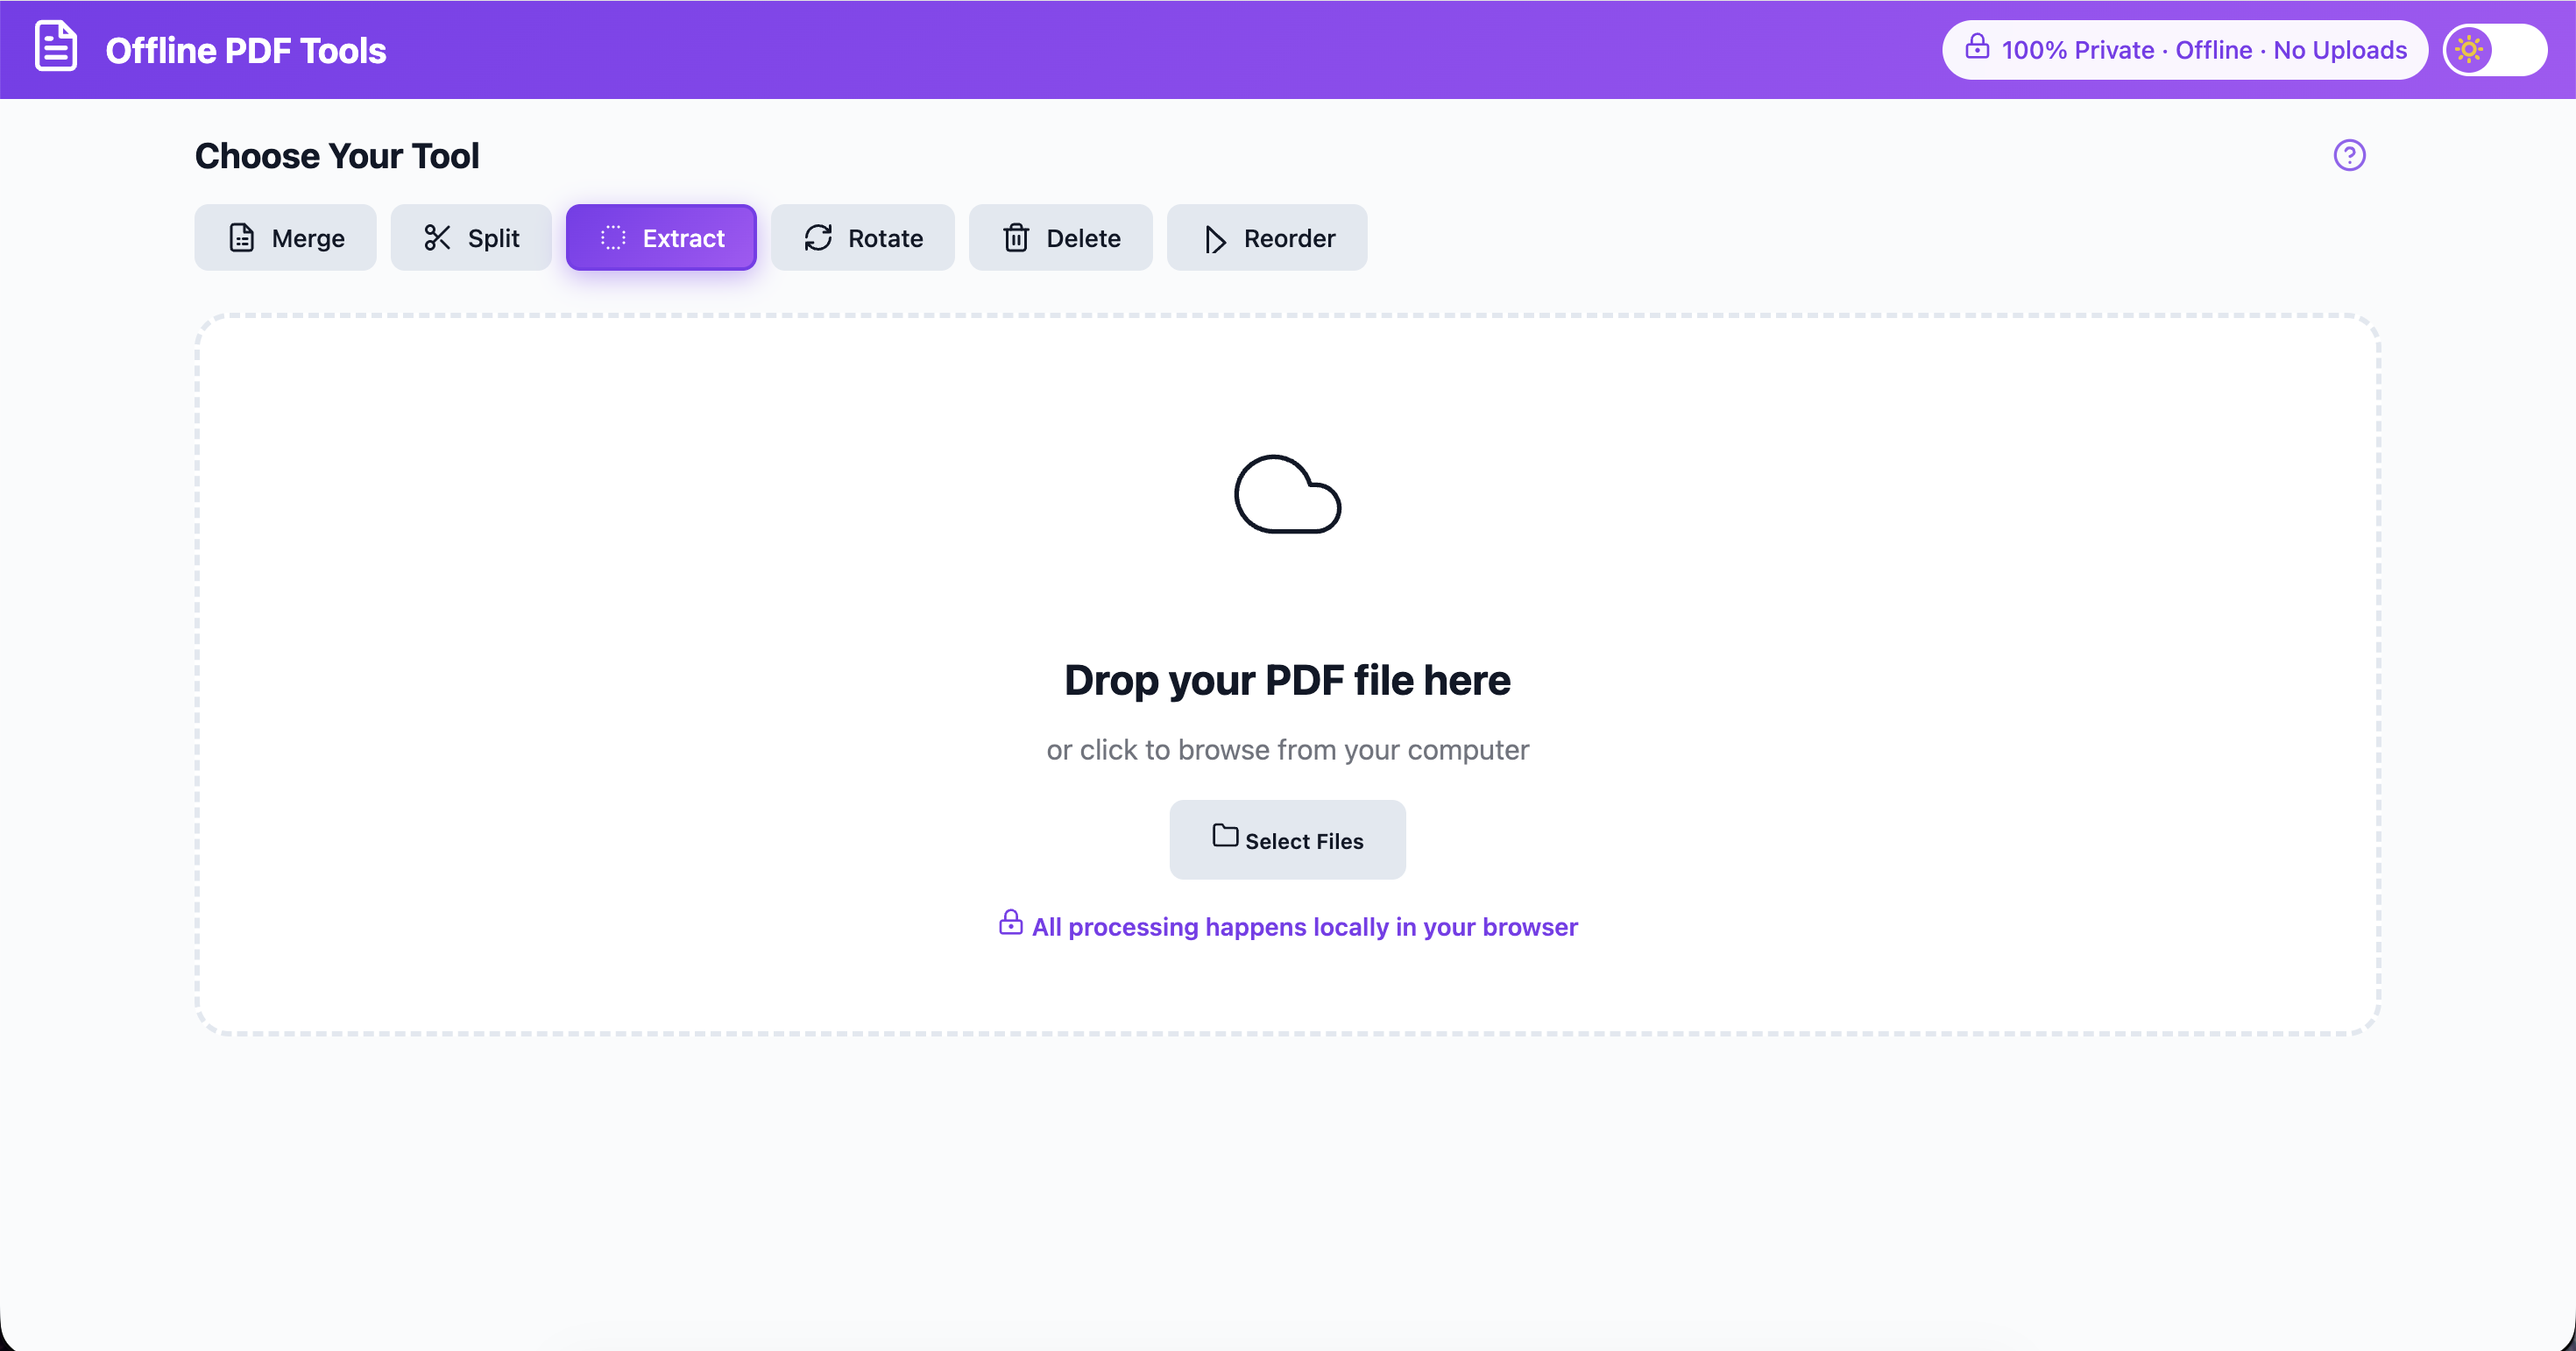
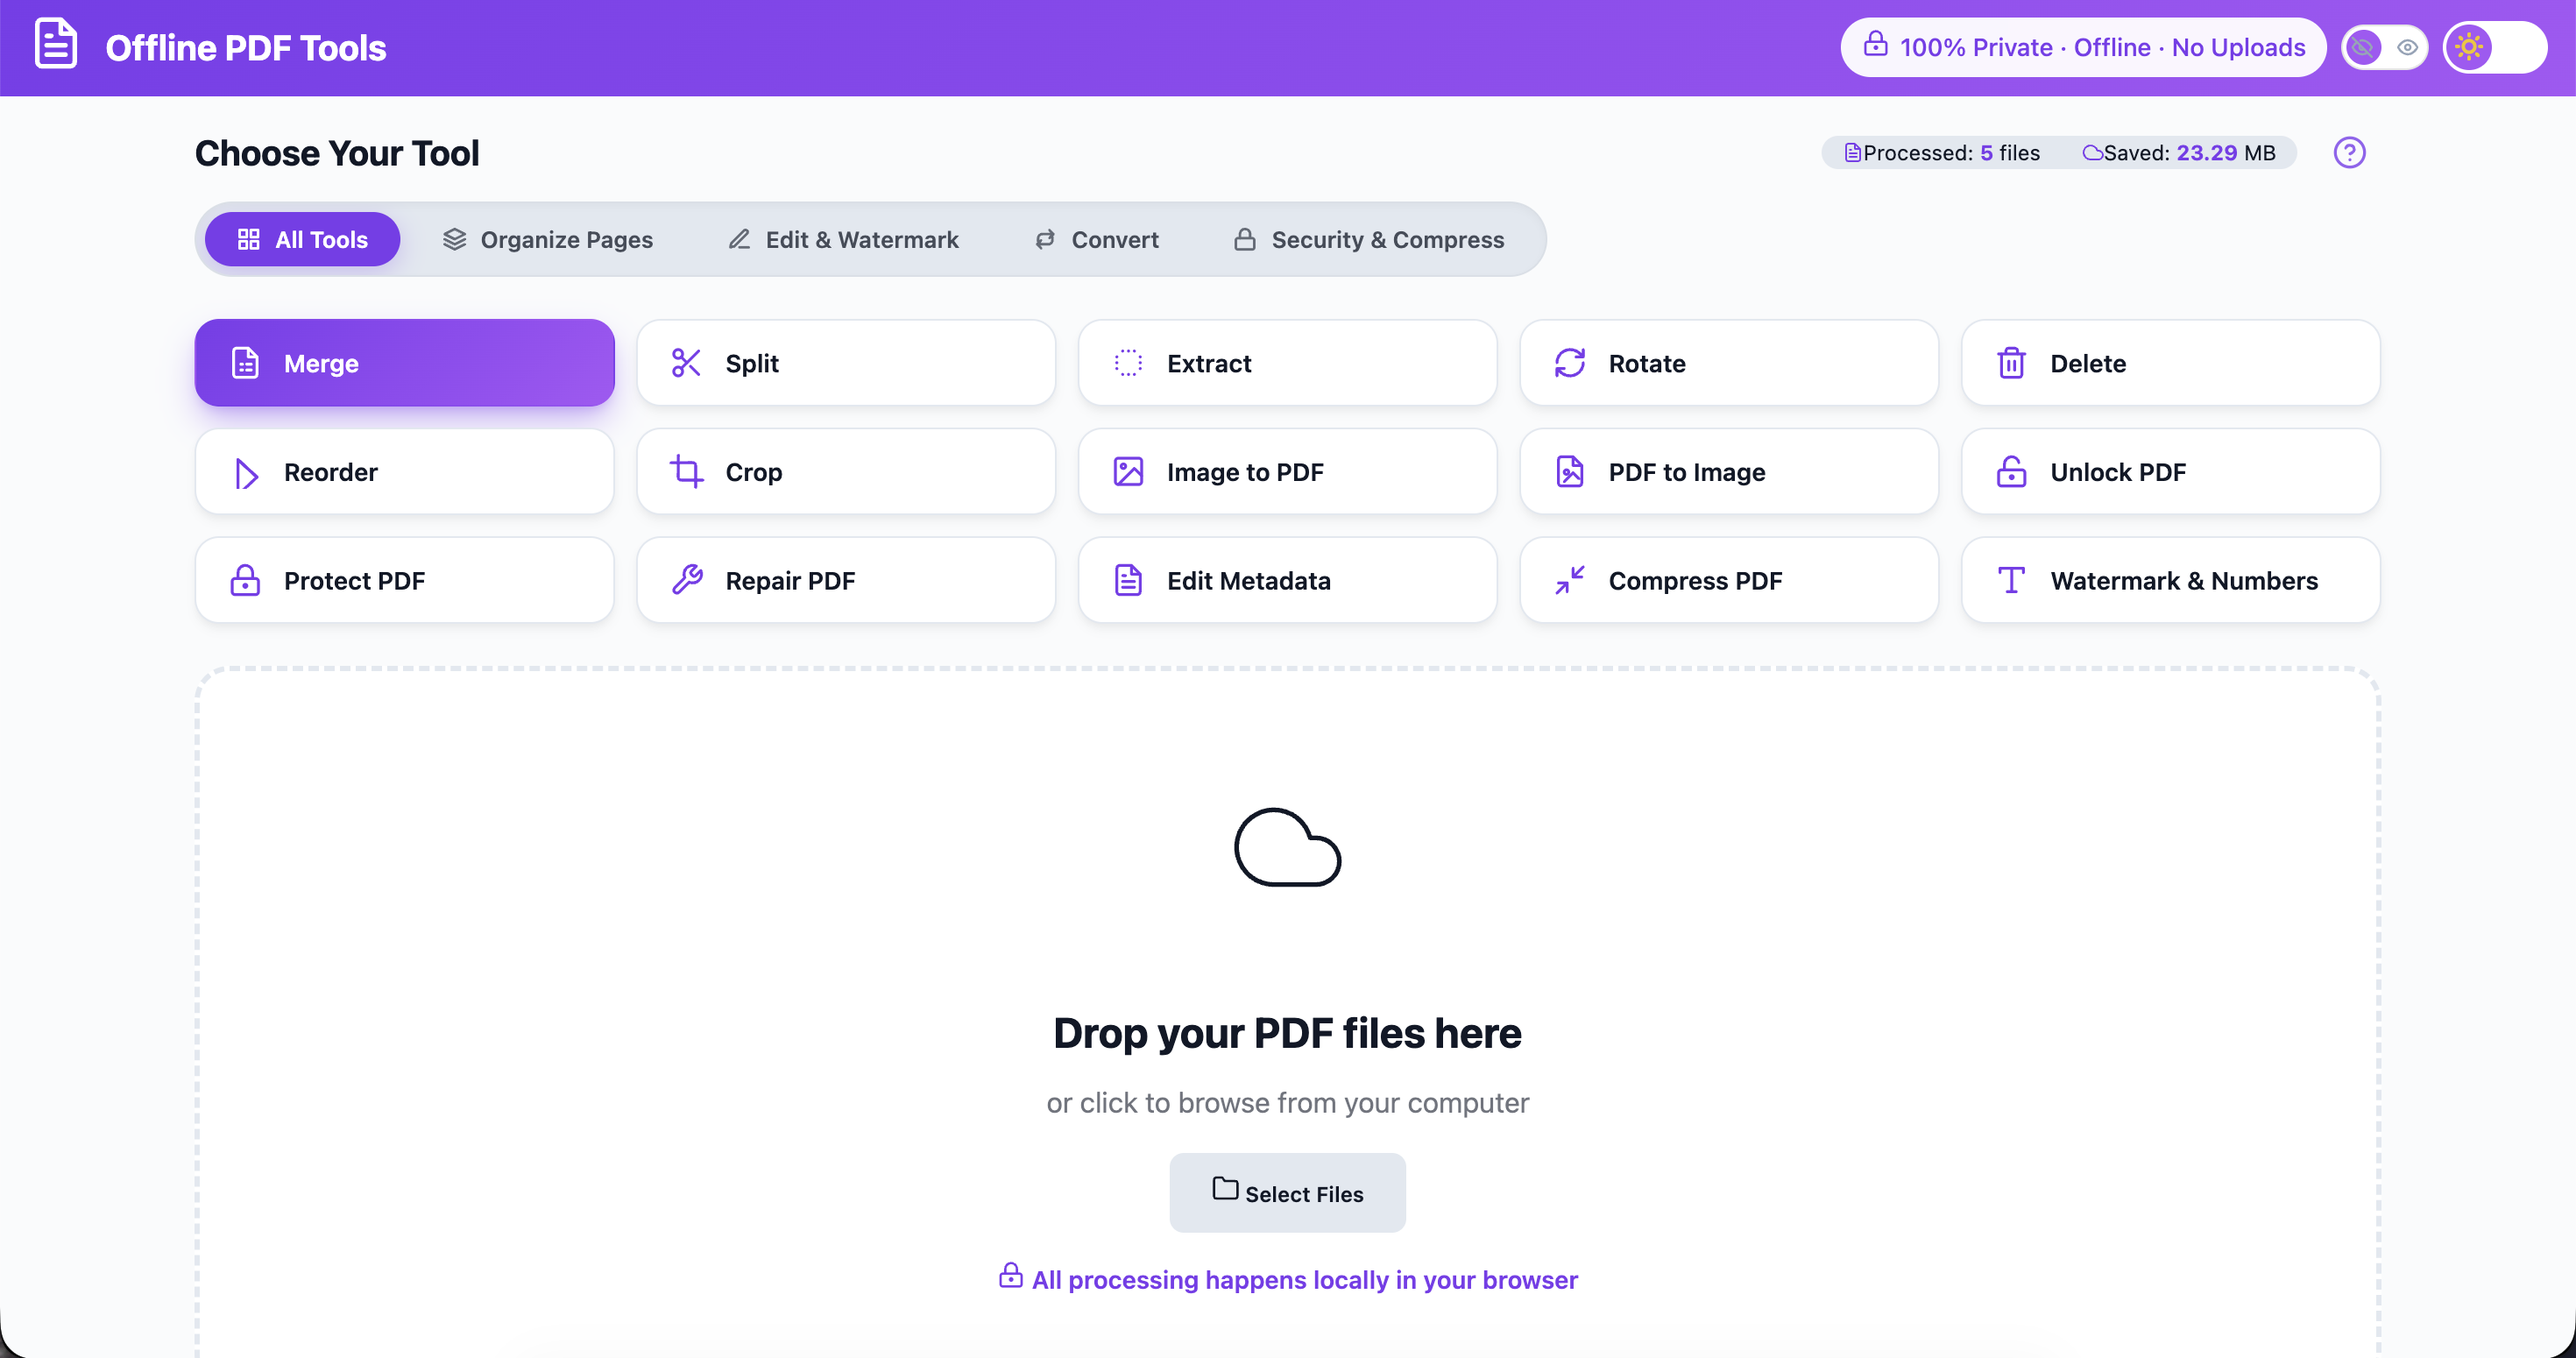
docs: update and reorganize application screenshots in assets directory

diff --git a/README.md b/README.md
@@ -125,13 +125,14 @@ Offline PDF Tools is designed with:
 
 ### 🔷 Light Mode
 
-![Light Mode - Home](./assets/screenshots/Main%20Page%20-%20Light%20Theme.png)
-![Light Mode - Page Tools](./assets/screenshots/Feature%20screen%20-%20Light%20Theme.png)
+![Light Mode - Main Page](./assets/screenshots/Main%20Page%20-%20Light%20Theme.png)
+![Light Mode - Crop Tool](./assets/screenshots/Crop%20Screen%20-%20Light%20Theme.png)
+![Light Mode - Rotate Tool](./assets/screenshots/Rotate%20Screen%20-%20Light%20Theme.png)
+![Light Mode - Security Tool](./assets/screenshots/Security%20Category%20-%20Light%20Theme.png)
 
 ### 🌑 Dark Mode
 
-![Dark Mode - Home](./assets/screenshots/Main%20Screen%20-%20Dark%20Theme.png)
-![Dark Mode - Page Tools](./assets/screenshots/Feature%20Screen%20-%20Dark%20Theme.png)
+![Dark Mode - Home](./assets/screenshots/Main%20Page%20-%20Dark%20Theme.png)
 
 ---
 
